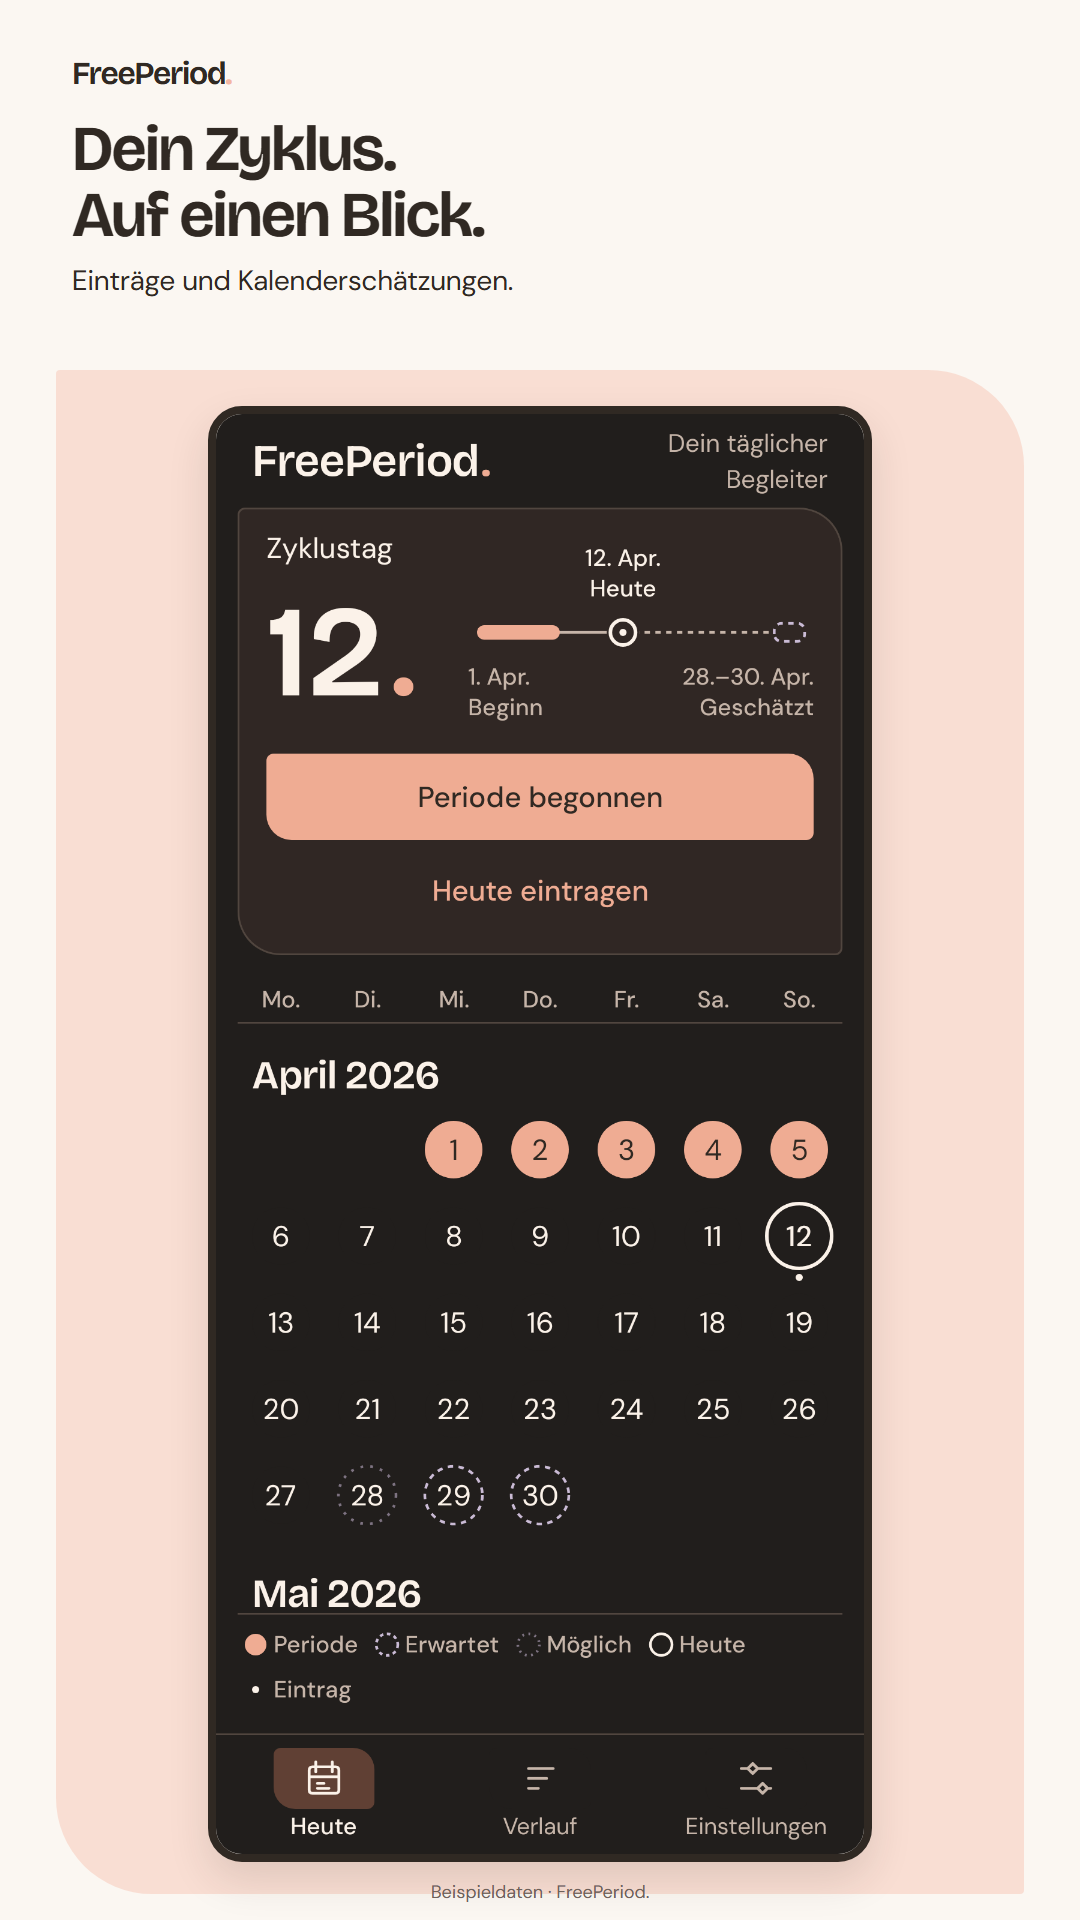
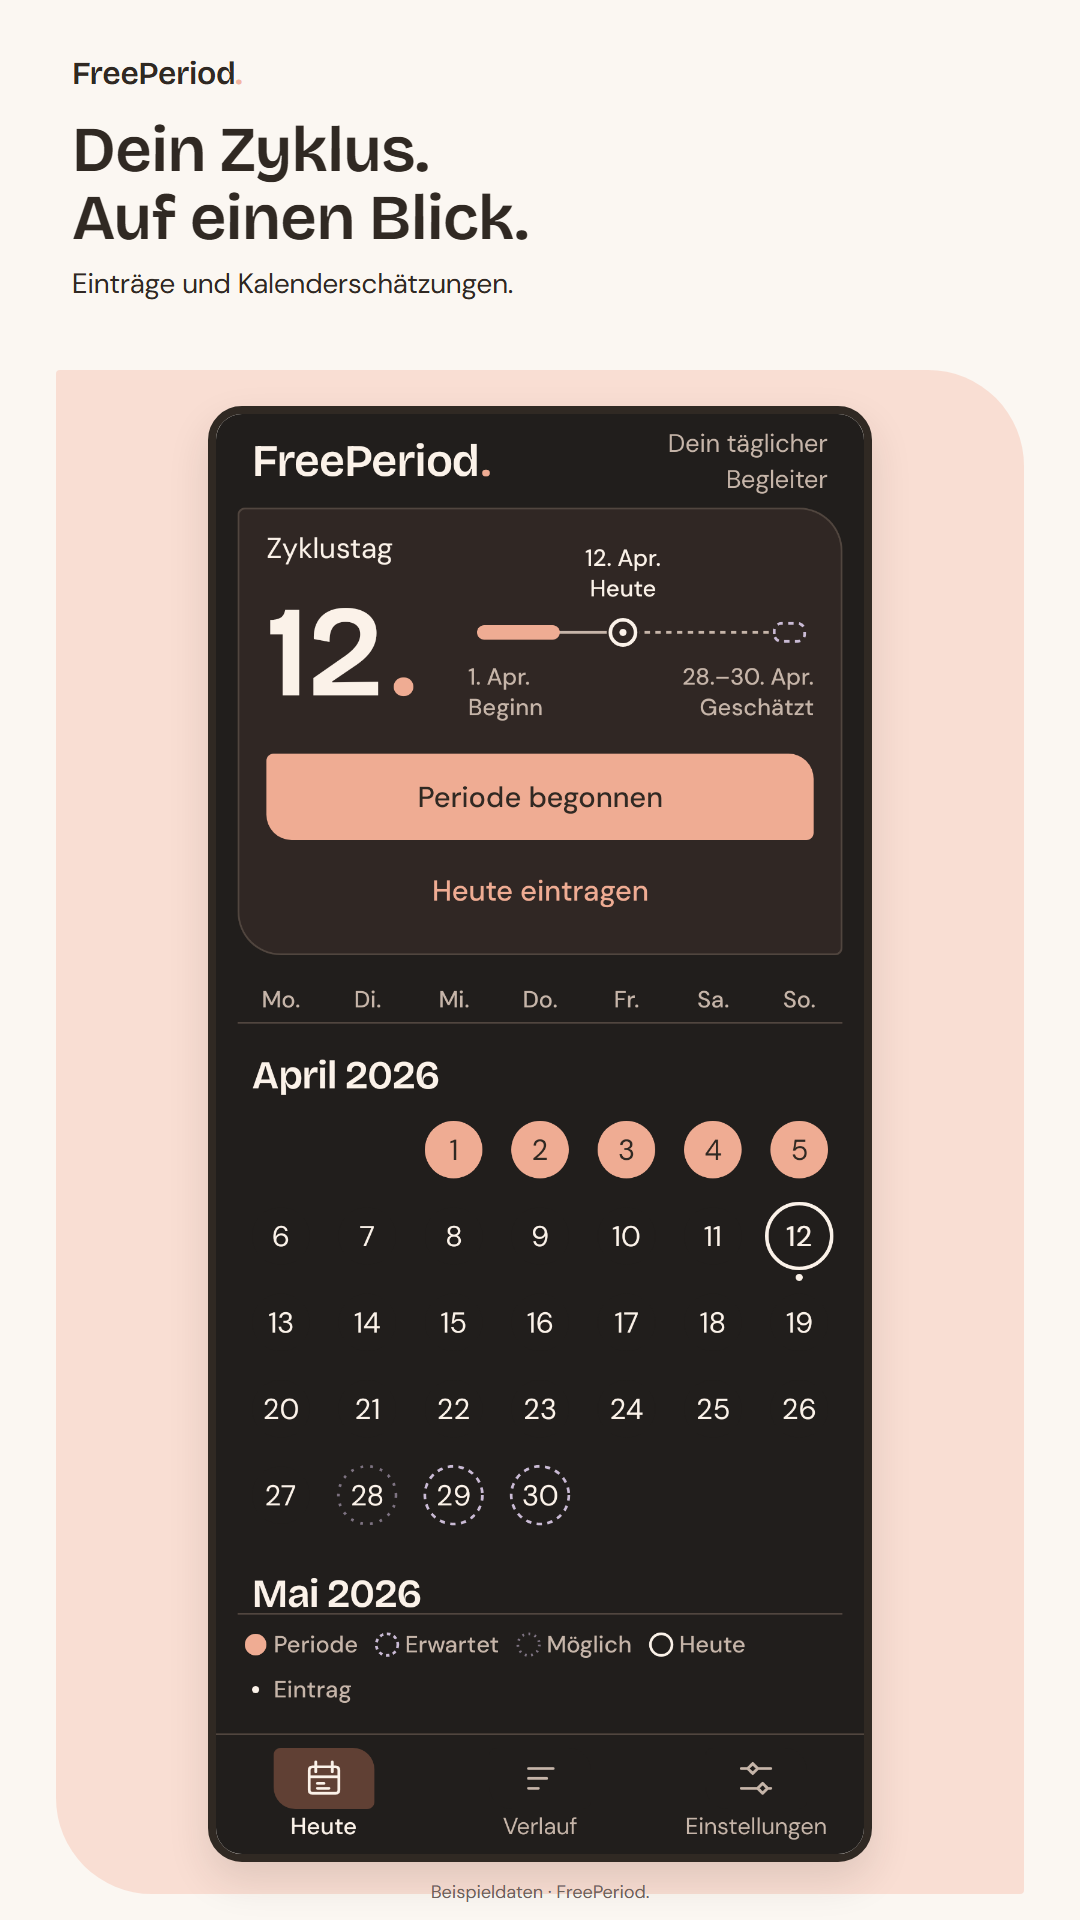
store, site: headings use the app's Bricolage cut (SemiBold, opsz 24, normal width)

Changed region(s): [[0.0611, 0.0312, 0.4889, 0.1562]]

diff --git a/site/styles.css b/site/styles.css
@@ -28,14 +28,15 @@ body { margin: 0; color: var(--ink); font: 1rem/1.65 var(--body); }
 a { color: var(--link); text-underline-offset: .22em; }
 a:hover { text-decoration-thickness: 2px; }
 a:focus-visible { outline: 3px solid var(--ink); outline-offset: 5px; border-radius: 2px; }
-h1, h2, h3, .wordmark { font-family: var(--heading); font-weight: 650; line-height: 1.12; }
+/* Same cut as the app (Type.kt): SemiBold, optical size 24, normal width – not the browser's automatic display cut. */
+h1, h2, h3, .wordmark { font-family: var(--heading); font-weight: 600; font-variation-settings: "opsz" 24, "wdth" 100; line-height: 1.12; }
 h1, h2, h3, p { margin-top: 0; }
-h1 { font-size: clamp(2.1rem, 6vw, 3.5rem); letter-spacing: -.04em; }
-h2 { margin-top: 2rem; font-size: 1.45rem; letter-spacing: -.02em; }
+h1 { font-size: clamp(2.1rem, 6vw, 3.5rem); letter-spacing: -.01em; }
+h2 { margin-top: 2rem; font-size: 1.45rem; letter-spacing: -.01em; }
 .stop { color: var(--coral); }
 .shell { width: min(100% - 40px, 960px); margin-inline: auto; }
 .site-header { padding-block: 28px; display: flex; align-items: center; justify-content: space-between; gap: 20px; flex-wrap: wrap; }
-.wordmark { font-size: 1.6rem; letter-spacing: -.04em; color: var(--ink); text-decoration: none; }
+.wordmark { font-size: 1.6rem; letter-spacing: -.01em; color: var(--ink); text-decoration: none; }
 .site-header nav, .site-footer nav { display: flex; flex-wrap: wrap; gap: 12px 24px; }
 .site-footer { margin-top: 56px; padding-block: 24px 40px; border-top: 1px solid var(--line); color: var(--muted); font-size: .9rem; }
 .site-footer p { margin: 12px 0 0; }

diff --git a/store/artwork.css b/store/artwork.css
@@ -11,7 +11,7 @@ body.artwork { margin: 0; padding: 48px; width: max-content; }
 }
 .feature-copy { position: absolute; left: 56px; top: 40px; width: 580px; }
 .feature .wordmark { font-size: 38px; }
-.feature h1 { font-size: 66px; line-height: 1.02; letter-spacing: -2.5px; margin: 42px 0 20px; }
+.feature h1 { font-size: 66px; line-height: 1.06; letter-spacing: -0.6px; margin: 42px 0 20px; }
 .feature p { font-size: 20px; line-height: 1.45; max-width: 440px; }
 .feature .feature-foot { position: absolute; bottom: 28px; left: 56px; margin: 0; font-size: 17px; }
 .feature-phone {
@@ -26,7 +26,7 @@ body.artwork { margin: 0; padding: 48px; width: max-content; }
 .shot::before { content: ""; position: absolute; inset: 370px 56px 26px; background: #f9ded3; border-radius: 4px 96px 4px 96px; }
 .shot header { position: absolute; top: 56px; left: 72px; right: 72px; }
 .shot .wordmark { font-size: 32px; }
-.shot h2 { font-size: 64px; line-height: 1.03; letter-spacing: -2px; margin: 24px 0 14px; }
+.shot h2 { font-size: 64px; line-height: 1.06; letter-spacing: -0.6px; margin: 24px 0 14px; }
 .shot .caption { font-size: 28px; line-height: 1.35; max-width: 860px; margin: 0; }
 .phone-frame {
   position: absolute; top: 406px; left: 50%; transform: translateX(-50%);
